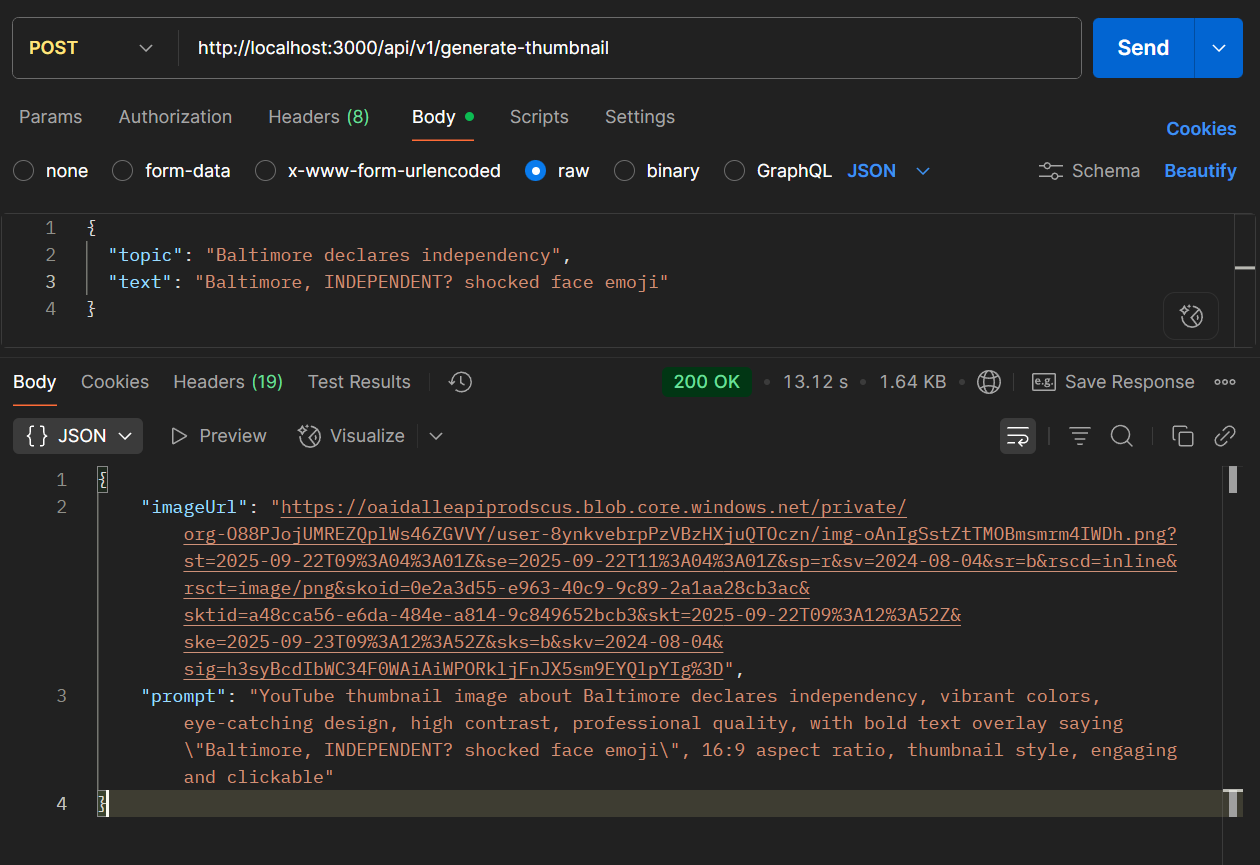
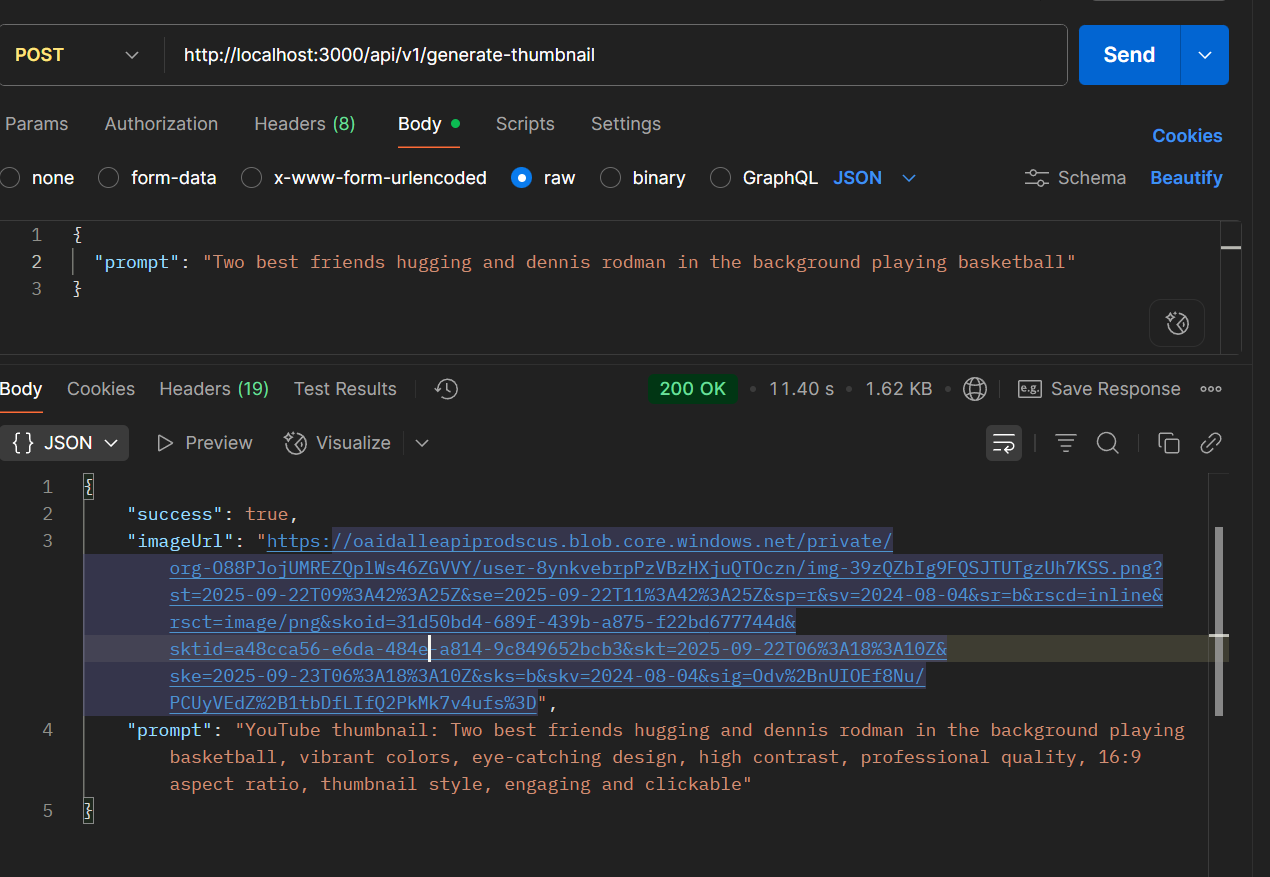
refactor: update thumbnail generation API to use a text prompt and enhance error handling

diff --git a/src/api/controllers/imageController.ts b/src/api/controllers/imageController.ts
@@ -14,25 +14,28 @@ interface OpenAIImageResponse {
   }>;
 }
 
+interface OpenAIChatResponse {
+  choices: Array<{
+    message: {
+      content: string;
+    };
+  }>;
+}
+
 const generateThumbnail = async (
   req: Request<{}, {}, ImageGenerationRequest>,
   res: Response<ImageGenerationResponse>,
   next: NextFunction
 ) => {
   try {
-    const {topic, text} = req.body;
+    const {prompt: userPrompt} = req.body;
 
-    // Create a detailed prompt for YouTube thumbnail generation
-    let prompt = `YouTube thumbnail image about ${topic}, vibrant colors, eye-catching design, high contrast, professional quality`;
-
-    if (text) {
-      prompt += `, with bold text overlay saying "${text}"`;
-    }
-
-    prompt += `, 16:9 aspect ratio, thumbnail style, engaging and clickable`;
+    // Enhance the user prompt for YouTube thumbnail generation
+    const enhancedPrompt = `YouTube thumbnail: ${userPrompt}, vibrant colors, eye-catching design, high contrast, professional quality, 16:9 aspect ratio, thumbnail style, engaging and clickable`;
 
     const request = {
-      prompt: prompt,
+      model: 'dall-e-3', // model here
+      prompt: enhancedPrompt,
       n: 1,
       size: '1024x1024' as const,
       response_format: 'url' as const,
@@ -49,30 +52,93 @@ const generateThumbnail = async (
     );
     console.log('Request body:', JSON.stringify(request, null, 2));
 
-    const imageResponse = await fetchData<OpenAIImageResponse>(
-      process.env.OPENAI_API_URL + '/v1/images/generations',
-      {
-        method: 'POST',
-        headers: {
-          'Content-Type': 'application/json',
-        },
-        body: JSON.stringify(request),
+    try {
+      const imageResponse = await fetchData<OpenAIImageResponse>(
+        process.env.OPENAI_API_URL + '/v1/images/generations',
+        {
+          method: 'POST',
+          headers: {
+            'Content-Type': 'application/json',
+          },
+          body: JSON.stringify(request),
+        }
+      );
+
+      if (
+        !imageResponse.data ||
+        !imageResponse.data[0] ||
+        !imageResponse.data[0].url
+      ) {
+        next(new CustomError('No image generated from OpenAI', 500));
+        return;
       }
-    );
 
-    if (
-      !imageResponse.data ||
-      !imageResponse.data[0] ||
-      !imageResponse.data[0].url
-    ) {
-      next(new CustomError('No image generated from OpenAI', 500));
-      return;
+      res.json({
+        success: true,
+        imageUrl: imageResponse.data[0].url,
+        prompt: enhancedPrompt,
+      });
+    } catch (apiError) {
+      console.error('Image API Error details:', apiError);
+
+      // Check if it's a content policy violation
+      const errorMessage =
+        apiError instanceof Error ? apiError.message : String(apiError);
+      if (
+        errorMessage.toLowerCase().includes('content policy') ||
+        errorMessage.toLowerCase().includes('safety') ||
+        errorMessage.toLowerCase().includes('inappropriate')
+      ) {
+        res.json({
+          success: false,
+          imageUrl: null,
+          prompt: enhancedPrompt,
+          message:
+            'Content rejected by AI safety filters. Please try a different prompt that complies with content policies.',
+          contentPolicyViolation: true,
+        });
+        return;
+      }
+
+      // Try fallback to chat completions instead
+      try {
+        const chatRequest = {
+          messages: [
+            {
+              role: 'user',
+              content: `Create a detailed description for a YouTube thumbnail based on this prompt: "${userPrompt}". Describe colors, composition, and visual elements that would make it engaging and clickable.`,
+            },
+          ],
+          model: 'gpt-3.5-turbo', // Fixed: use chat model, not image model
+        };
+
+        const chatResponse = await fetchData<OpenAIChatResponse>(
+          process.env.OPENAI_API_URL + '/v1/chat/completions',
+          {
+            method: 'POST',
+            headers: {
+              'Content-Type': 'application/json',
+            },
+            body: JSON.stringify(chatRequest),
+          }
+        );
+
+        res.json({
+          success: false,
+          imageUrl: null,
+          prompt: enhancedPrompt,
+          description: chatResponse.choices[0].message.content,
+          message:
+            'Image generation not supported by this endpoint. Generated detailed description instead.',
+          fallback: true,
+        });
+        return;
+      } catch (chatError) {
+        console.error('Chat API also failed:', chatError);
+        next(new CustomError('Both image and chat APIs failed', 500));
+        return;
+      }
     }
-
-    res.json({
-      imageUrl: imageResponse.data[0].url,
-      prompt: prompt,
-    });
   } catch (error) {
     next(error);
   }

diff --git a/src/types/MessageTypes.ts b/src/types/MessageTypes.ts
@@ -7,13 +7,17 @@ type ErrorResponse = MessageResponse & {
 };
 
 type ImageGenerationRequest = {
-  topic: string;
-  text?: string;
+  prompt: string;
 };
 
 type ImageGenerationResponse = {
-  imageUrl: string;
+  success?: boolean;
+  imageUrl: string | null;
   prompt: string;
+  description?: string;
+  message?: string;
+  fallback?: boolean;
+  contentPolicyViolation?: boolean;
 };
 
 export {

diff --git a/src/api/routes/imageRoute.ts b/src/api/routes/imageRoute.ts
@@ -7,11 +7,6 @@ const router = express.Router();
 
 router
   .route('/')
-  .post(
-    body('topic').notEmpty().escape(),
-    body('text').optional().escape(),
-    validate,
-    generateThumbnail
-  );
+  .post(body('prompt').notEmpty().escape(), validate, generateThumbnail);
 
 export default router;

diff --git a/README.md b/README.md
@@ -23,14 +23,13 @@ AI-powered YouTube thumbnail generator that creates engaging thumbnails using Op
 
 ### POST /api/v1/generate-thumbnail
 
-Generate a YouTube thumbnail image based on a topic.
+Generate a YouTube thumbnail image based on a text prompt.
 
 **Input:**
 
 ```json
 {
-  "topic": "space exploration",
-  "text": "Explore the Universe!"
+  "prompt": "space exploration with astronauts and planets"
 }
 ```
 
@@ -38,8 +37,9 @@ Generate a YouTube thumbnail image based on a topic.
 
 ```json
 {
+  "success": true,
   "imageUrl": "https://example.com/generated-image.png",
-  "prompt": "YouTube thumbnail about space exploration with stars, planets, astronauts and text 'Explore the Universe!' in bold letters"
+  "prompt": "YouTube thumbnail: space exploration with astronauts and planets, vibrant colors, eye-catching design, high contrast, professional quality, 16:9 aspect ratio, thumbnail style, engaging and clickable"
 }
 ```
 
@@ -49,10 +49,10 @@ Generate a YouTube thumbnail image based on a topic.
 
 The application uses OpenAI's DALL-E API to generate custom YouTube thumbnails:
 
-1. Takes a topic/theme as input
-2. Optionally accepts text to overlay on the thumbnail
-3. Generates a detailed prompt for DALL-E
-4. Returns the generated image URL
+1. Takes a text prompt as input describing what you want in the thumbnail
+2. Enhances the prompt with YouTube thumbnail-specific styling instructions
+3. Sends the request to DALL-E for image generation
+4. Returns the generated image URL and enhanced prompt
 
 ### Screenshots
 
@@ -66,12 +66,12 @@ _Example API request using Postman to generate a thumbnail_
 ![AI Generated Thumbnail](screenshots/generated-pic.png)
 _AI-generated YouTube thumbnail created by the API_
 
-### Example Topics and Results
+### Example Prompts and Results
 
-- **Space**: Generates images with stars, planets, astronauts, rockets
-- **Cooking**: Creates thumbnails with food, kitchen utensils, chef elements
-- **Gaming**: Produces gaming-themed imagery with controllers, characters, effects
-- **Travel**: Shows landscapes, landmarks, travel-related imagery
+- **"space exploration with rockets and stars"** - Generates cosmic imagery with spacecraft and celestial bodies
+- **"cooking pasta with fresh ingredients"** - Creates food photography with vibrant ingredients and kitchen elements
+- **"gaming setup with RGB lighting"** - Produces gaming-themed imagery with colorful lighting and equipment
+- **"travel destination tropical beach sunset"** - Shows scenic travel imagery with beaches and sunsets
 
 ## Technical Implementation
 
